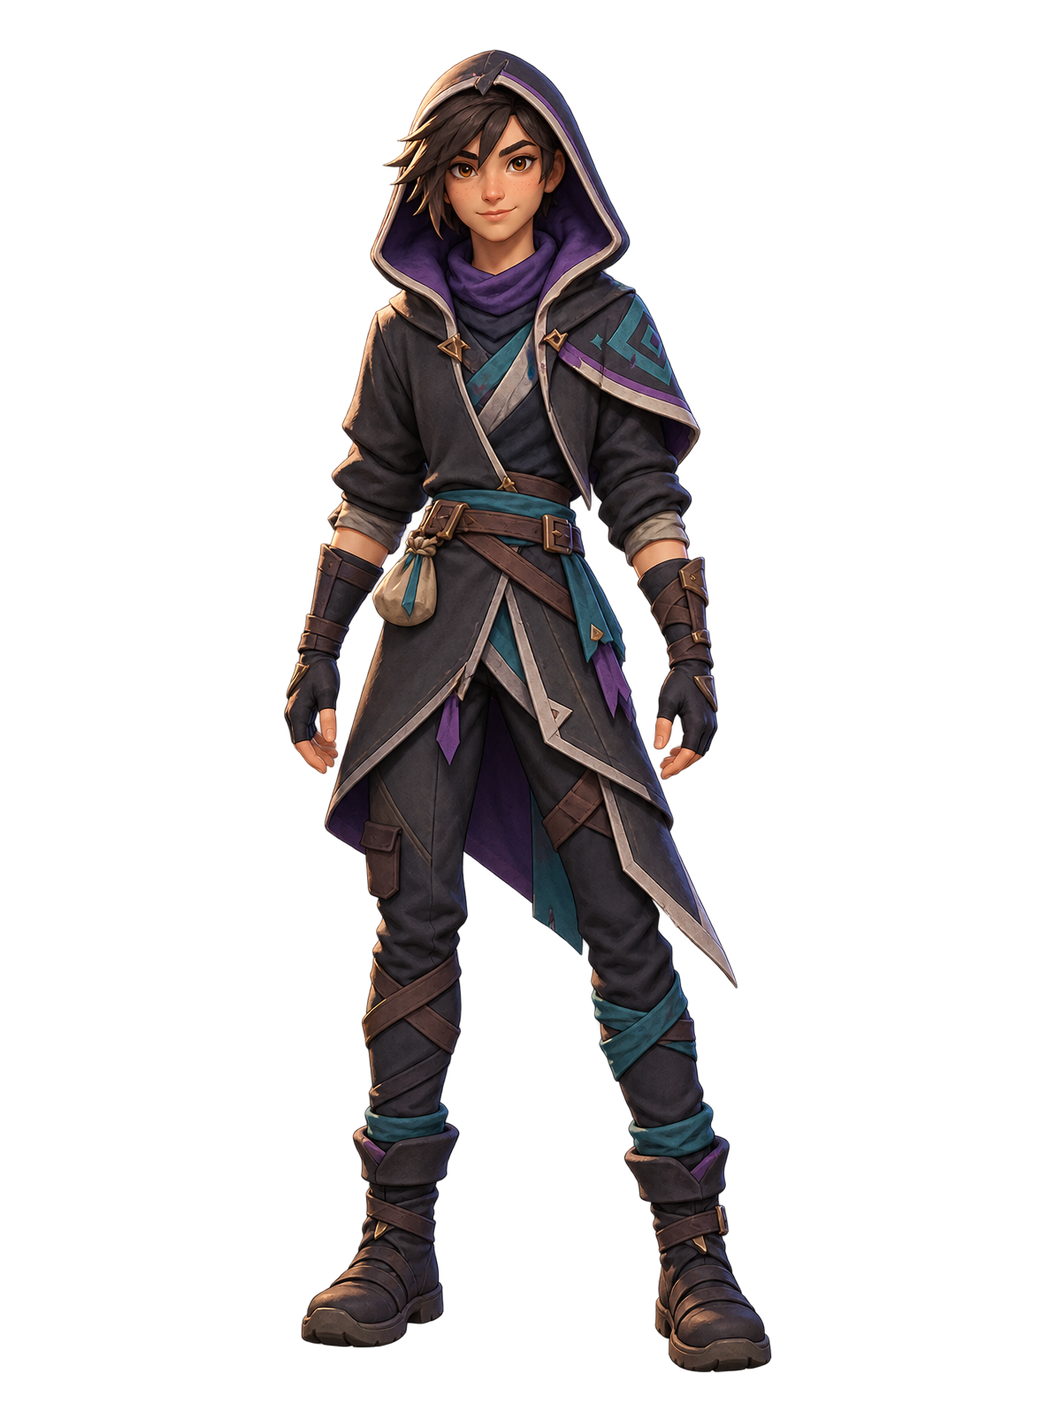
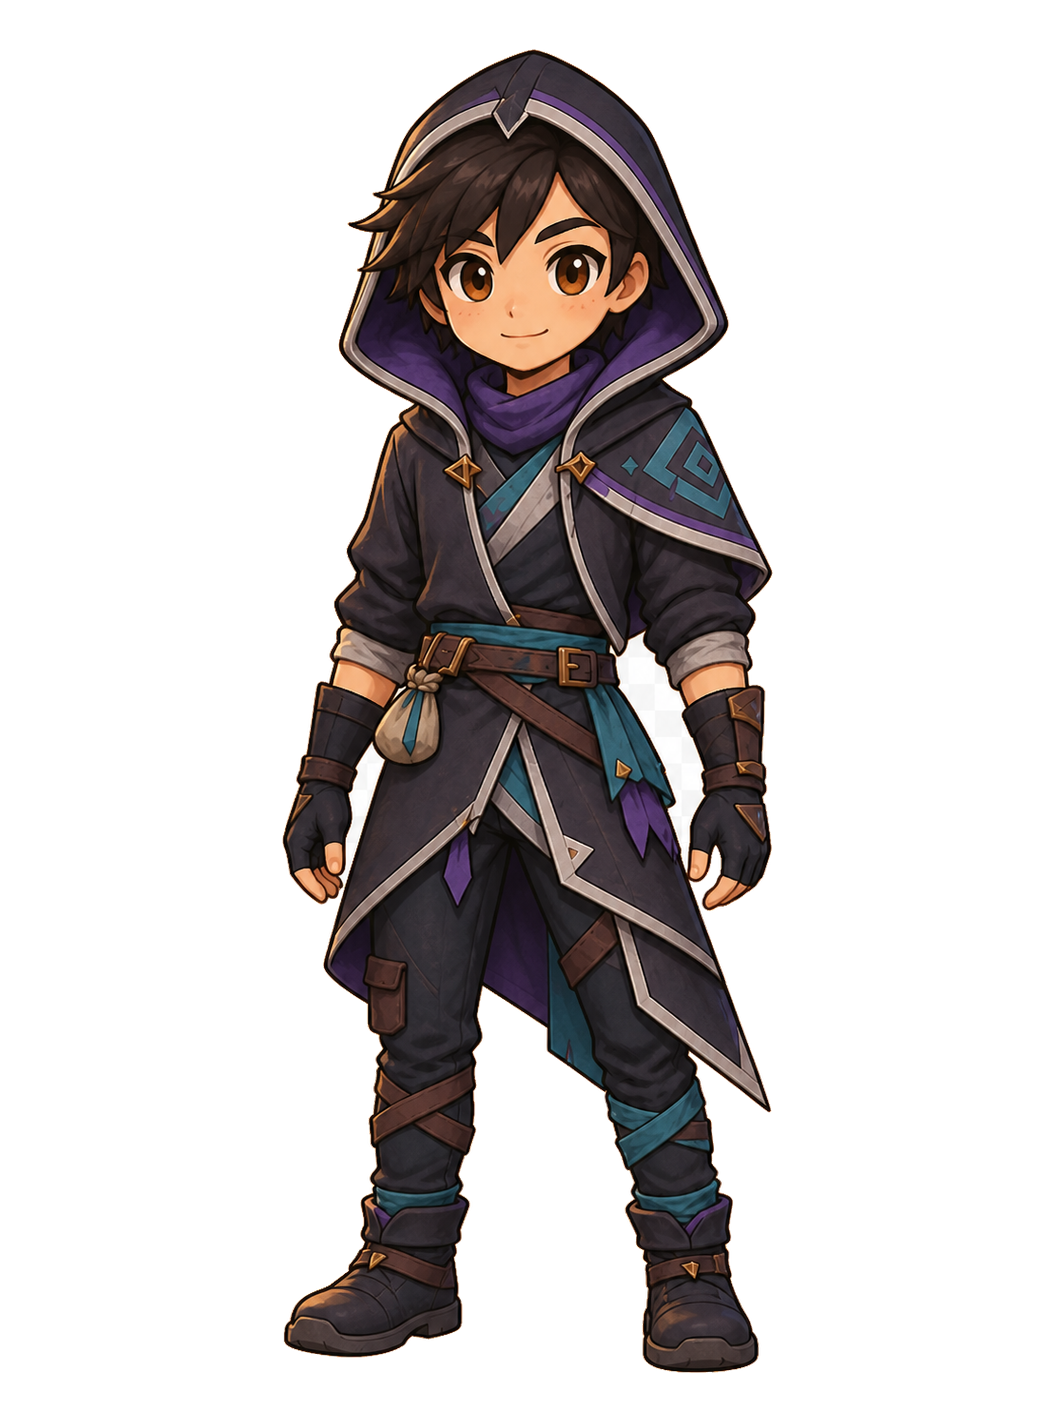
RPG Wave 2 P1 visual family revision

Changed region(s): [[0.25, 0.0312, 0.75, 1.0]]

diff --git a/docs/planning/rpg_wave2_gate2_character_art_p1_review.html b/docs/planning/rpg_wave2_gate2_character_art_p1_review.html
@@ -97,9 +97,10 @@
 </head>
 <body>
 <main>
-  <p class="eyebrow">Go Odyssey · Wave 2 · Lane A · Gate 2 · P1</p>
+  <p class="eyebrow">Go Odyssey · Wave 2 · Lane A · Gate 2 · P1 · Visual Revision 002</p>
   <h1>Character Collection — Production Art Review Prototype</h1>
-  <p class="intro">This is a review-only vertical slice for the six player-character P1 assets and two Zone 1 NPC assets. It demonstrates collection presentation without registering new ownership, calling the selection API, or writing any database state.</p>
+  <p class="intro">This is a review-only vertical slice for the six player-character P1 assets and two Zone 1 NPC assets. Revision 002 aligns Trail Apprentice, Night Runner, and Constellation Apprentice to the approved player-character visual family while preserving their identities. It demonstrates collection presentation without registering new ownership, calling the selection API, or writing any database state.</p>
+  <p class="small"><a href="rpg_wave2_gate2_character_art_p1_contact_sheet.png">Open the equal-scale and mobile-card contact sheet</a> · top row: six players · middle row: Village Elder and Messenger · bottom row: mobile-card comparison.</p>
   <div class="guard">
     <strong>Authority guard:</strong> appearance selection remains <code>player_appearance.character_key</code>; functional equipment remains <code>player_inventory</code>. Character art, decorative props, collection metadata, and locked preview cards have no combat authority. New candidate IDs are intentionally not added to the runtime roster in this artifact.
   </div>
@@ -143,8 +144,8 @@
     <article class="npc-card"><div class="npc-art"><img src="../../assets/world/characters/wave2_p1/world_messenger_p1.png" alt="Messenger full-body production art"></div><div class="npc-body"><div class="card-top"><div><h3>信使 / Messenger</h3><div class="meta">Zone 1 · Shot 10</div></div><span class="state npc-state">NPC</span></div><p>Zone 1 courier who delivers the missing-caravan story hook after the Elder trial. Satchel and scroll are story props, not functional equipment.</p><div class="pill-row"><span class="pill">dialogue-ready</span><span class="pill">story handoff</span></div></div></article>
   </section>
 
-  <h2>Visual QA — P1 Review Sheet</h2>
-  <div class="qa-note">The PNG masters are normalized to 1056×1408 RGBA with a shared foot baseline and 10% safe area. The older runtime source files are left untouched; the P1 derivatives use thresholded alpha and neutral RGB under fully transparent pixels to prevent green-key or matte carry-over.</div>
+  <h2>Visual QA — P1 Visual Revision 002</h2>
+  <div class="qa-note">The PNG masters are normalized to 1056×1408 RGBA with a shared foot baseline and 10% safe area. All six players use PLAYER_FRAME_A_STANDARD_CHIBI; Village Elder and Messenger remain in the broader NPC frame. The revised derivatives use deterministic border-checkerboard removal and neutral RGB under fully transparent pixels to prevent green-key or matte carry-over. The older runtime source files remain untouched.</div>
   <div class="qa-wrap">
     <table>
       <thead><tr><th>Asset</th><th>Silhouette / body scale</th><th>Face / outline</th><th>Lighting / shading</th><th>Alpha</th><th>Mobile card</th><th>Cross-character coherence</th></tr></thead>
@@ -152,11 +153,11 @@
         <tr><td>apprentice</td><td class="pass">PASS</td><td>PASS — simple novice face and warm contour</td><td>PASS — soft upper-left key</td><td class="pass">PASS — RGBA, no keyed backdrop</td><td>PASS — simple large costume blocks</td><td>PASS — baseline and palette anchor</td></tr>
         <tr><td>mage</td><td class="pass">PASS</td><td>PASS — lavender hair/navy robe remain dominant</td><td>PASS — restrained gold accents</td><td class="pass">PASS — RGBA, checkerboard removed</td><td>PASS — large robe masses survive reduction</td><td>PASS — detail-heavy family retained</td></tr>
         <tr><td>paladin</td><td class="pass">PASS</td><td>PASS — calm face and warm dark outline</td><td>PASS — white/gold highlight controlled</td><td class="pass">PASS — RGBA, clean export</td><td>PASS — white/blue silhouette reads first</td><td>PASS — armor-heavy identity retained</td></tr>
-        <tr><td>trail_apprentice</td><td class="pass">PASS</td><td>PASS — scarf and short-coat silhouette</td><td>PASS — upper-left key with broad fabric shading</td><td class="pass">PASS — RGBA, no backdrop</td><td>PASS — teal scarf/coat remain legible</td><td>PASS — approved beginner/adventurer family</td></tr>
-        <tr><td>night_runner</td><td class="pass">PASS</td><td>PASS — hood opening and diagonal hem</td><td>PASS — charcoal/violet/teal separation</td><td class="pass">PASS — RGBA, no backdrop</td><td>PASS — hood and diagonal line survive</td><td>PASS — darker rogue family without weapon</td></tr>
-        <tr><td>constellation_apprentice</td><td class="pass">PASS</td><td>PASS — tall hair/hood and open hands</td><td>PASS — navy/lavender/ivory balance</td><td class="pass">PASS — RGBA, no backdrop</td><td>PASS — constellation band remains a single motif</td><td>PASS — mage/scholar family without class authority</td></tr>
+        <tr><td>trail_apprentice</td><td class="pass">PASS</td><td>PASS — chibi head/body ratio with scarf and pack silhouette</td><td>PASS — soft upper-left key with simplified fabric shading</td><td class="pass">PASS — RGBA, checkerboard removed</td><td>PASS — teal scarf/coat remain legible</td><td>PASS — shares PLAYER_FRAME_A_STANDARD_CHIBI</td></tr>
+        <tr><td>night_runner</td><td class="pass">PASS</td><td>PASS — readable chibi face, hood opening, and asymmetric hem</td><td>PASS — simplified charcoal/violet/teal separation</td><td class="pass">PASS — RGBA, checkerboard removed</td><td>PASS — hood and diagonal line survive</td><td>PASS — rogue identity now shares player family without weapon</td></tr>
+        <tr><td>constellation_apprentice</td><td class="pass">PASS</td><td>PASS — readable face, asymmetric sleeves, and constellation motif</td><td>PASS — simplified navy/lavender/gold balance</td><td class="pass">PASS — RGBA, checkerboard removed</td><td>PASS — constellation line remains a single motif</td><td>PASS — mage/scholar identity now shares player family</td></tr>
         <tr><td>world.village_elder</td><td class="pass">PASS</td><td>PASS — canonical beard/topknot/robe identity</td><td>PASS — warmer NPC key, still soft upper-left</td><td class="pass">PASS — RGBA, reusable cutout</td><td>PASS — face and robe remain readable</td><td>PASS — NPC treatment distinct from player collection</td></tr>
-        <tr><td>world.messenger</td><td class="pass">PASS</td><td>PASS — sash and courier face read at card size</td><td>PASS — Zone 1 warm teal/clay palette</td><td class="pass">PASS — RGBA, reusable cutout</td><td>PASS — sash/satchel story silhouette</td><td>PASS — NPC role separated from playable IDs</td></tr>
+        <tr><td>world.messenger</td><td class="pass">PASS</td><td>PASS — polished sash and courier face read at card size</td><td>PASS — Zone 1 warm teal/clay palette</td><td class="pass">PASS — RGBA, checkerboard removed</td><td>PASS — sash/satchel story silhouette</td><td>PASS — NPC polish remains separate from playable IDs</td></tr>
       </tbody>
     </table>
   </div>

diff --git a/tests/test_rpg_wave2_gate2_character_art_p1.py b/tests/test_rpg_wave2_gate2_character_art_p1.py
@@ -10,6 +10,7 @@ from PIL import Image
 ROOT = Path(__file__).resolve().parents[1]
 MANIFEST = ROOT / "docs/planning/rpg_wave2_gate2_character_art_p1_manifest.json"
 REVIEW = ROOT / "docs/planning/rpg_wave2_gate2_character_art_p1_review.html"
+CONTACT_SHEET = ROOT / "docs/planning/rpg_wave2_gate2_character_art_p1_contact_sheet.png"
 APP = ROOT / "app.py"
 HERO = ROOT / "hero.html"
 
@@ -87,8 +88,34 @@ def test_p1_png_masters_and_webp_derivatives_meet_export_contract():
             assert image.mode in {"RGBA", "RGB"}, runtime
 
 
+def test_visual_revision_locks_shared_player_family_and_review_artifact():
+    manifest = _manifest()
+    revision = manifest["visual_revision"]
+    assert revision["revision_id"] == "RPG_WAVE2_GATE2_CHARACTER_ART_P1_VISUAL_REVISION_002"
+    assert revision["player_visual_family_coherence"].startswith("PASS")
+    assert revision["classifications"] == {
+        "trail_apprentice": "POLISH — identity, scarf, pack, travel silhouette, and teal/brown family preserved",
+        "night_runner": "REVISE — rogue hood, dark asymmetric silhouette, and teal/violet accents preserved while moving into the player proportion family",
+        "constellation_apprentice": "REVISE — mage/scholar identity, constellation motif, asymmetric layers, and navy/gold family preserved",
+        "world.village_elder": "KEEP — canonical E10 identity preserved",
+        "world.messenger": "POLISH — Zone 1 Shot 10 courier identity and story role preserved",
+    }
+    assert set(revision["player_body_frame_families"]["PLAYER_FRAME_A_STANDARD_CHIBI"]["members"]) == P1_PLAYER_IDS
+    assert revision["player_body_frame_families"]["NPC_FRAME_B_WORLD_BROAD"]["members"] == [
+        "world.village_elder",
+        "world.messenger",
+    ]
+    assert "no functional weapon" in revision["functional_weapon_policy"].lower()
+    assert CONTACT_SHEET.is_file()
+    with Image.open(CONTACT_SHEET) as sheet:
+        assert sheet.width >= 1500
+        assert sheet.height >= 1200
+
+
 def test_collection_review_prototype_is_review_only_and_contains_required_states():
     html = REVIEW.read_text(encoding="utf-8")
+    assert "P1 Visual Revision 002" in html
+    assert "rpg_wave2_gate2_character_art_p1_contact_sheet.png" in html
     assert "10 / 20" in html
     assert "player_appearance.character_key" in html
     assert "player_inventory" in html
